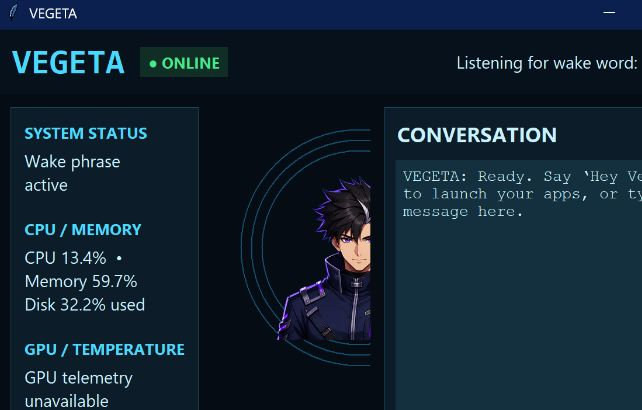
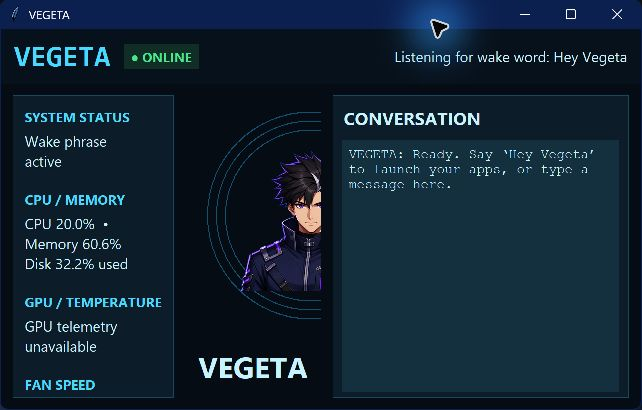
Improve dashboard presentation

diff --git a/jarvis_ui.py b/jarvis_ui.py
@@ -43,6 +43,8 @@ class JarvisDashboard(tk.Tk):
         self.configure(bg=BG)
         self.geometry("1280x760")
         self.minsize(980, 620)
+        if os.name == "nt":
+            self.state("zoomed")
         self._pulse = 0
         load_dotenv(Path(__file__).resolve().parent.parent / ".env")
         self.client = OpenAI() if os.environ.get("OPENAI_API_KEY") else None
